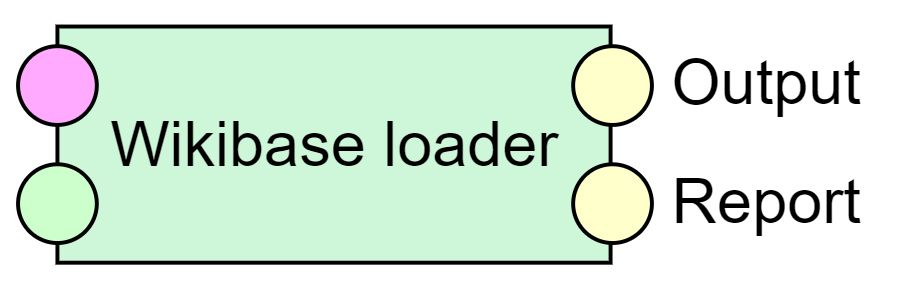
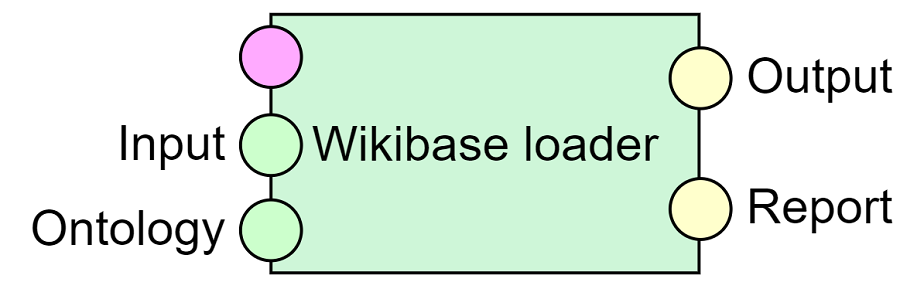
Update l-wikibase documentation

diff --git a/_components/l-wikibase.html b/_components/l-wikibase.html
@@ -32,7 +32,8 @@ Loader, allows the user to load RDF data using the <a href="https://www.mediawik
             <dd>{{ page.type }}</dd>
             <dt>Inputs</dt>
             <dd>RDF single graph - Configuration</dd>
-            <dd>RDF single graph - Data</dd>
+            <dd>RDF single graph - Input</dd>
+            <dd>RDF single graph - Ontology</dd>
             <dt>Outputs</dt>
             <dd>RDF single graph - Output mapping</dd>
             <dd>RDF single graph - Report</dd>
@@ -102,4 +103,41 @@ wd:Q1 a wikibase:Item .
 <urn:MyNewItem> loader:mappedTo wd:Q9999999999 .
 {% endhighlight %}
 
+	<h3 class="orange-text center">Wikibase ontology</h3>
+	
+	<p class="flow-text">
+		If you plan to use some of the less conventional data types used in Wikibases, you need to provide the definitions of those property data types.
+		The definition looks, for instance, like this:
+	</p>
+{% highlight turtle %}
+<https://wikibase.opendata.cz/entity/P3> a <http://wikiba.se/ontology#Property> ;
+    <http://wikiba.se/ontology#propertyType> <http://wikiba.se/ontology#String> .
+    
+<https://wikibase.opendata.cz/entity/P4> a <http://wikiba.se/ontology#Property> ;
+     <http://wikiba.se/ontology#propertyType> <http://wikiba.se/ontology#ExternalId> .
+     
+<https://wikibase.opendata.cz/entity/P6> a <http://wikiba.se/ontology#Property> ;
+     <http://wikiba.se/ontology#propertyType> <http://wikiba.se/ontology#WikibaseItem> .
+     
+<https://wikibase.opendata.cz/entity/P7> a <http://wikiba.se/ontology#Property> ;
+     <http://wikiba.se/ontology#propertyType> <http://wikiba.se/ontology#Quantity> .
+          
+<https://wikibase.opendata.cz/entity/P11> a <http://wikiba.se/ontology#Property> ;
+     <http://wikiba.se/ontology#propertyType> <http://wikiba.se/ontology#Time> .
+     
+<https://wikibase.opendata.cz/entity/P12> a <http://wikiba.se/ontology#Property> ;
+     <http://wikiba.se/ontology#propertyType> <http://wikiba.se/ontology#GlobeCoordinate> .
+     
+<https://wikibase.opendata.cz/entity/P13> a <http://wikiba.se/ontology#Property> ;
+     <http://wikiba.se/ontology#propertyType> <http://wikiba.se/ontology#GeoShape> .
+     
+<https://wikibase.opendata.cz/entity/P14> a <http://wikiba.se/ontology#Property> ;
+     <http://wikiba.se/ontology#propertyType> <http://wikiba.se/ontology#Monolingualtext> .
+     
+<https://wikibase.opendata.cz/entity/P15> a <http://wikiba.se/ontology#Property> ;
+     <http://wikiba.se/ontology#propertyType> <http://wikiba.se/ontology#CommonsMedia> .
+
+<https://wikibase.opendata.cz/entity/P17> a <http://wikiba.se/ontology#Property> ;
+     <http://wikiba.se/ontology#propertyType> <http://wikiba.se/ontology#WikibaseProperty> .
+{% endhighlight %}
 </div>
